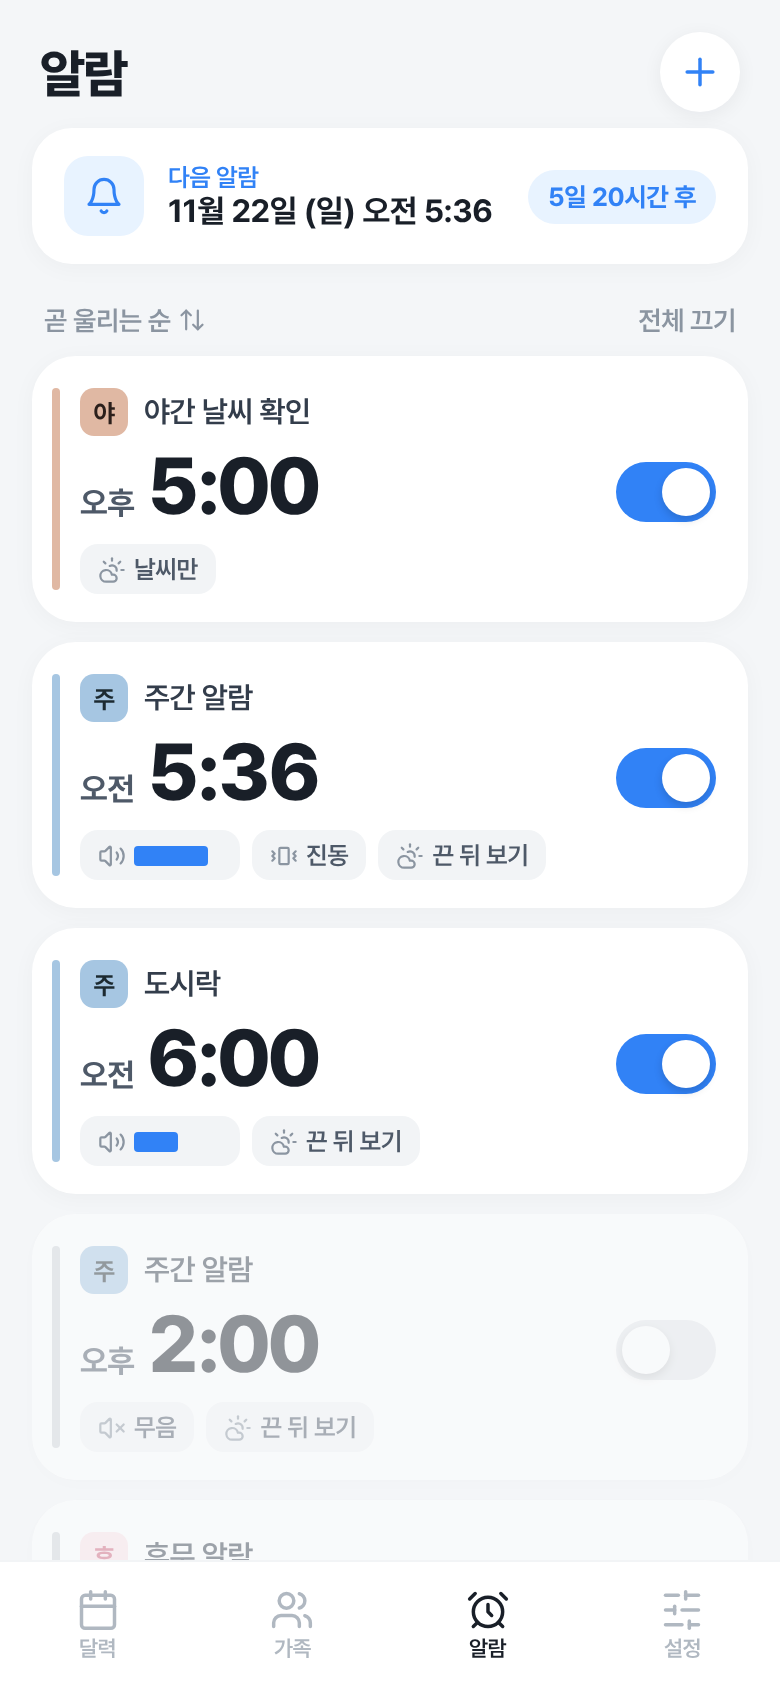
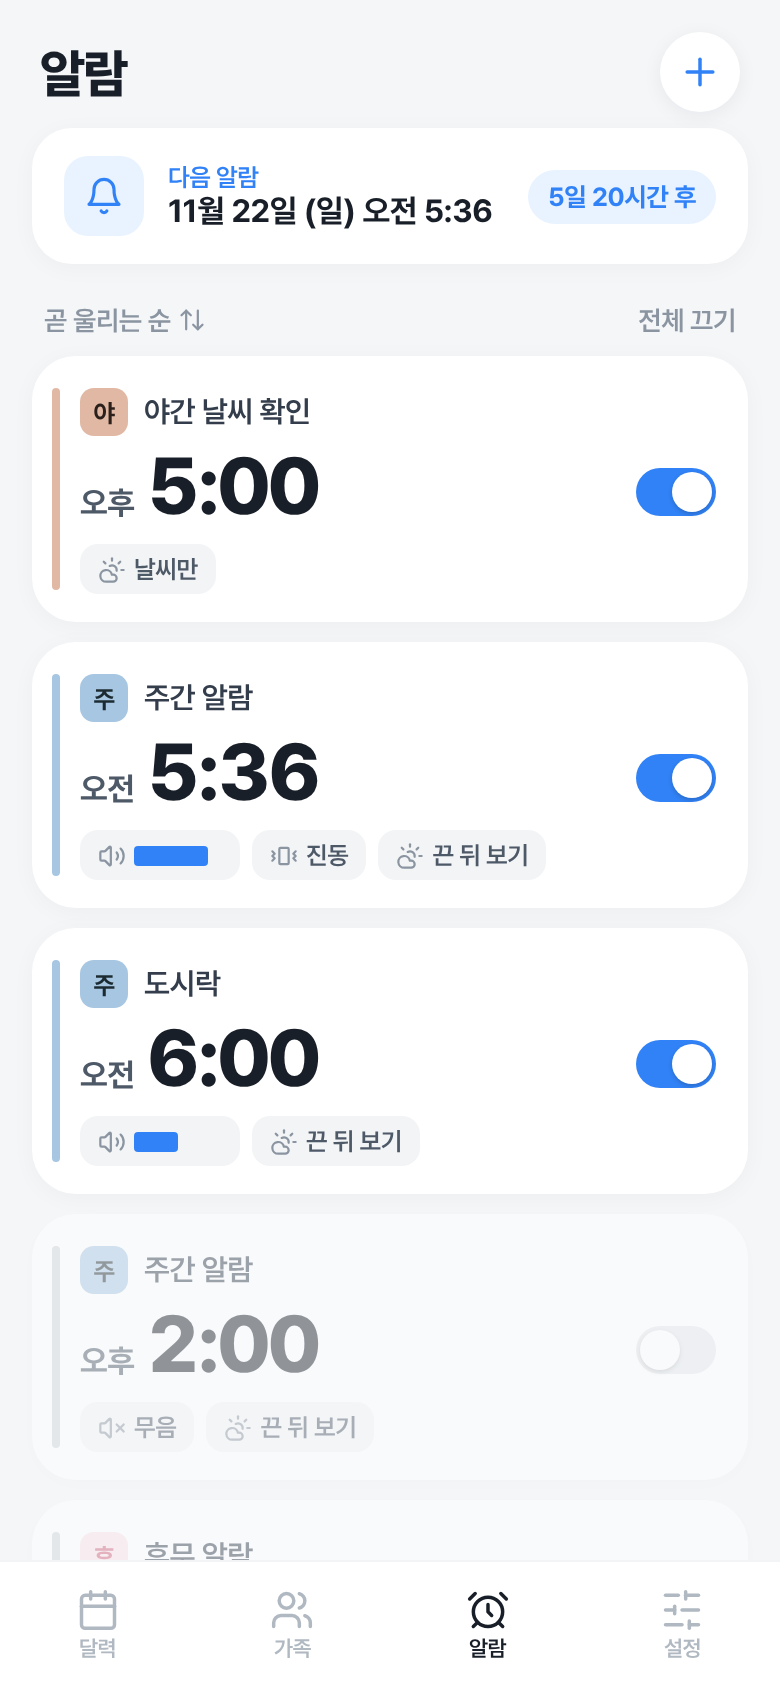
design: 알람 탭 스위치 작게
Claude-Session: https://claude.ai/code/session_01JTBnEvptp151JygSjZNCTX

Changed region(s): [[0.7692, 0.4313, 0.9231, 0.4929], [0.7692, 0.5853, 0.9231, 0.6469], [0.7692, 0.2464, 0.9231, 0.3081]]

diff --git a/design/alarm-tab/v1.html b/design/alarm-tab/v1.html
@@ -63,7 +63,7 @@ h2{font-size:13px;font-weight:700;color:var(--ink3);margin:24px 6px 8px}
 .ac .tm{display:flex;align-items:baseline;gap:6px;margin-top:4px}.ac .tm small{font-size:16px;font-weight:700;color:#4e5968}.ac .tm b{font-size:40px;font-weight:800;letter-spacing:-1.5px;line-height:1.05;font-variant-numeric:tabular-nums}
 .chips2{display:flex;gap:6px;margin-top:8px;flex-wrap:wrap}.chips2 span{display:flex;align-items:center;gap:4px;font-size:12.5px;font-weight:600;color:#4e5968;background:#f2f4f6;padding:5px 9px;border-radius:9px}.chips2 svg{color:#8b95a1}.vb{width:44px;height:4px;border-radius:2px;background:#e5e8eb;position:relative}.vb i{position:absolute;inset:0 auto 0 0;border-radius:2px;background:#3182f6}
 .ac.off{opacity:.45}.ac.off::before{background:#d1d6db}
-.nav{position:fixed;left:0;right:0;bottom:0;height:64px;background:#fff;border-top:1px solid #f2f4f6;display:grid;grid-template-columns:repeat(4,1fr)}.nav span{display:flex;flex-direction:column;align-items:center;justify-content:center;gap:2px;font-size:11px;font-weight:600;color:#b0b8c1}.nav span.on{color:#191f28}</style>
+.nav{position:fixed;left:0;right:0;bottom:0;height:64px;background:#fff;border-top:1px solid #f2f4f6;display:grid;grid-template-columns:repeat(4,1fr)}.nav span{display:flex;flex-direction:column;align-items:center;justify-content:center;gap:2px;font-size:11px;font-weight:600;color:#b0b8c1}.nav span.on{color:#191f28}.ac .tg{width:40px;height:24px;border-radius:12px}.ac .tg::after{top:2px;left:2px;width:20px;height:20px;box-shadow:0 1px 2px rgba(0,0,0,.18)}.ac .tg.on::after{left:18px}.ac .tg.on{background:#3182f6}</style>
 <div class="hd"><h1>알람</h1><span><svg
   class="lucide lucide-plus"
   xmlns="http://www.w3.org/2000/svg"

diff --git a/docs/TODO.md b/docs/TODO.md
@@ -2509,5 +2509,5 @@
 
 ## 알람 탭 새 모양 (사용자 2026-11-16 · 시안 design/alarm-tab/after.png · v1.html)
 - 큰 제목 "알람" + 오른쪽 둥근 ＋ · 맨 위 "다음 알람" 카드(종 아이콘 · 날짜 시각 · 남은 시간 알약).
-- 알람 카드: 흰 바탕 + 왼쪽 근무 색 띠 + 근무 배지(바탕은 근무 색 X) · 이름 · 큰 시간(앞 0 없음 · 굵게) · 오른쪽 스위치 · 아래 작은 칩(소리 크기 막대 · 진동 · 무음 · 한 번만 · 날씨 = 앱 이름 그대로 "끈 뒤 보기"/"날씨만" · 날씨 아이콘 하나).
+- 알람 카드: 흰 바탕 + 왼쪽 근무 색 띠 + 근무 배지(바탕은 근무 색 X) · 이름 · 큰 시간(앞 0 없음 · 굵게) · 오른쪽 작은 스위치(40x24 · 지금 52x30 보다 작게) · 아래 작은 칩(소리 크기 막대 · 진동 · 무음 · 한 번만 · 날씨 = 앱 이름 그대로 "끈 뒤 보기"/"날씨만" · 날씨 아이콘 하나).
 - 꺼진 알람은 흐리게. "곧 울리는 순 ⇅" · "전체 끄기" 그대로. 이번만 끄기 · 건너뜀 표시 등 지금 있는 기능은 칩으로 유지.
